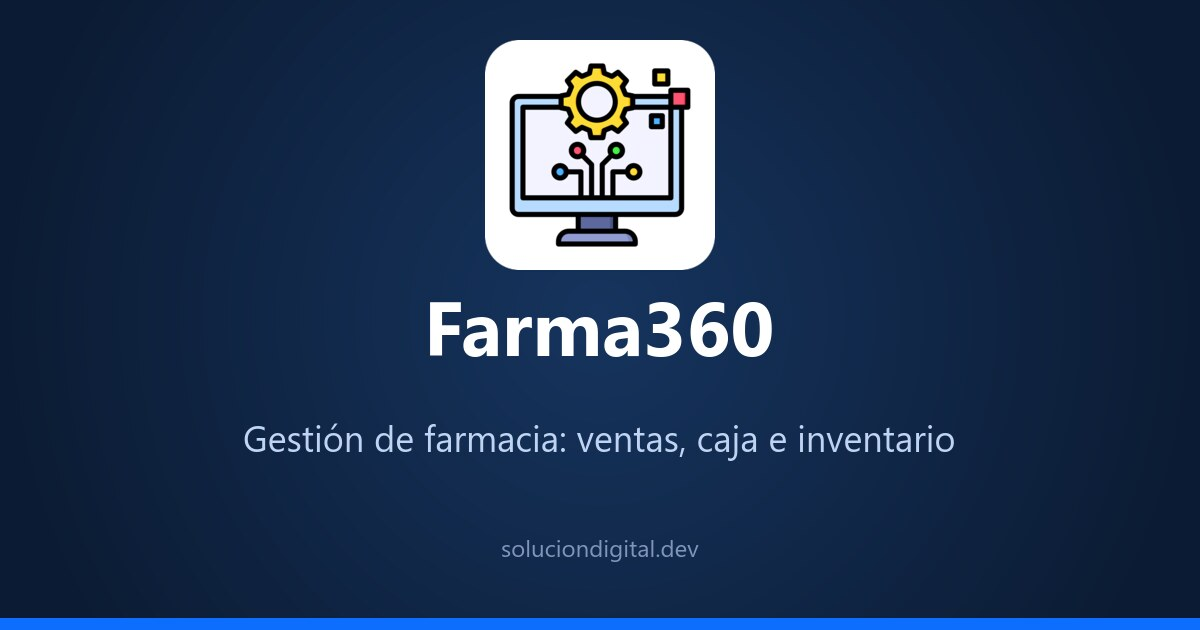
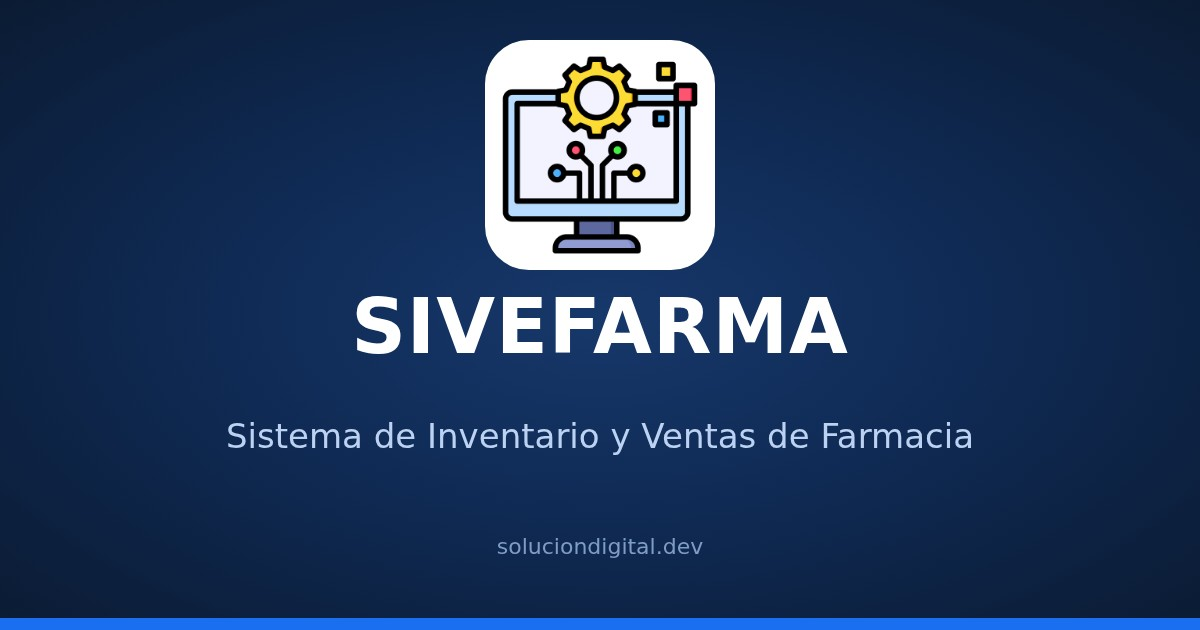
dev

diff --git a/resources/js/layouts/auth/auth-layout.tsx b/resources/js/layouts/auth/auth-layout.tsx
@@ -4,8 +4,9 @@
 import { AppLogoMark } from '@/components/shared/app-logo';
 import { DevelopedBy } from '@/components/shared/developed-by';
 import { FlashToast } from '@/components/shared/flash-toast';
-import { Link } from '@inertiajs/react';
-import { BarChart3, ShieldCheck, Users } from 'lucide-react';
+import { type SharedData } from '@/types';
+import { Link, usePage } from '@inertiajs/react';
+import { CalendarClock, ShoppingCart, Wallet } from 'lucide-react';
 
 interface AuthLayoutProps {
     children: React.ReactNode;
@@ -13,26 +14,43 @@ interface AuthLayoutProps {
     description?: string;
 }
 
+const SYSTEM_DESCRIPTION = 'Sistema de Inventario y Ventas de Farmacia';
+
 // Lo que trae el sistema (lado izquierdo). Cámbialo por lo que ofrece el sistema de cada cliente.
 const features = [
-    { icon: Users, title: 'Usuarios y roles', text: 'Crea roles a medida y decide qué puede ver y hacer cada uno.' },
-    { icon: ShieldCheck, title: 'Nada se pierde', text: 'Lo eliminado no se borra: queda guardado quién lo registró y quién lo eliminó.' },
-    { icon: BarChart3, title: 'Indicadores', text: 'Registros, cuentas activas y verificación, de un vistazo.' },
+    { icon: ShoppingCart, title: 'Venta rápida', text: 'Busca por nombre, síntoma o código de barras y cobra en segundos.' },
+    { icon: CalendarClock, title: 'Lotes y vencimientos', text: 'Sale primero lo que vence antes y el stock queda al día con cada venta.' },
+    { icon: Wallet, title: 'Caja clara', text: 'Cada turno registra quién vendió y cuánto debe haber en caja.' },
 ];
 
 export default function AuthLayout({ children, title, description }: AuthLayoutProps) {
+    const { name } = usePage<SharedData>().props;
+
     return (
         <div className="bg-background grid min-h-dvh lg:grid-cols-[minmax(0,5fr)_minmax(0,6fr)]">
             {/* Lado izquierdo: la marca (siempre oscuro) */}
-            <div className="dark bg-sidebar text-sidebar-foreground relative hidden flex-col justify-between border-r p-10 lg:flex xl:p-12">
-                <Link href={route('home')} className="flex items-center gap-3 text-white">
-                    <AppLogoMark className="size-9" />
-                    <span className="font-display text-base font-semibold">Panel Admin</span>
+            <div className="dark bg-sidebar text-sidebar-foreground relative hidden flex-col justify-between overflow-hidden border-r p-10 lg:flex xl:p-12">
+                {/* El mismo dibujo de cápsulas y jeringa del menú lateral */}
+                <div
+                    aria-hidden="true"
+                    className="absolute inset-y-0 right-0 w-1/2 bg-contain bg-right bg-no-repeat opacity-60"
+                    style={{
+                        backgroundImage: "url('/images/sidebar-bg.svg')",
+                        maskImage: 'linear-gradient(to right, transparent 25%, black 75%)',
+                    }}
+                />
+
+                <Link href={route('home')} className="relative flex items-center gap-3 text-white">
+                    <AppLogoMark className="size-10" />
+                    <span>
+                        <span className="font-display block text-base leading-tight font-semibold">{name}</span>
+                        <span className="text-sidebar-foreground/70 block text-xs">{SYSTEM_DESCRIPTION}</span>
+                    </span>
                 </Link>
 
-                <div className="max-w-md space-y-10">
+                <div className="relative max-w-md space-y-10">
                     <h2 className="font-display text-[2rem] leading-[1.15] font-semibold text-balance text-white">
-                        Gestión de usuarios, roles y permisos en un solo lugar.
+                        Ventas, inventario y caja de tu farmacia en un solo lugar.
                     </h2>
                     <ul className="space-y-6">
                         {features.map(({ icon: Icon, title, text }) => (
@@ -49,15 +67,20 @@ export default function AuthLayout({ children, title, description }: AuthLayoutP
                     </ul>
                 </div>
 
-                <p className="text-sidebar-foreground/50 text-xs">© {new Date().getFullYear()} Panel Admin</p>
+                <p className="text-sidebar-foreground/50 relative text-xs">
+                    © {new Date().getFullYear()} {name}
+                </p>
             </div>
 
             {/* Lado derecho: el formulario (login, registro…) llega como children */}
             <div className="flex items-center justify-center p-6 sm:p-10">
                 <div className="w-full max-w-sm space-y-8">
                     <Link href={route('home')} className="flex items-center gap-3 lg:hidden">
-                        <AppLogoMark className="size-9" />
-                        <span className="font-display text-base font-semibold">Panel Admin</span>
+                        <AppLogoMark className="size-10" />
+                        <span>
+                            <span className="font-display block text-base leading-tight font-semibold">{name}</span>
+                            <span className="text-muted-foreground block text-xs">{SYSTEM_DESCRIPTION}</span>
+                        </span>
                     </Link>
                     <div className="space-y-1.5">
                         <h1 className="font-display text-2xl font-semibold">{title}</h1>

diff --git a/resources/js/pages/auth/login.tsx b/resources/js/pages/auth/login.tsx
@@ -45,7 +45,7 @@ export default function Login({ status, canResetPassword }: LoginProps) {
     };
 
     return (
-        <AuthLayout title="Bienvenido de nuevo" description="Ingresa tu correo y contraseña para acceder al panel">
+        <AuthLayout title="Inicia sesión" description="Ingresa con tu correo para atender tu farmacia">
             <Head title="Iniciar sesión" />
 
             {status && (
@@ -122,12 +122,7 @@ export default function Login({ status, canResetPassword }: LoginProps) {
                     </Button>
                 </div>
 
-                <div className="text-muted-foreground text-center text-sm">
-                    ¿No tienes cuenta?{' '}
-                    <TextLink href={route('register')} tabIndex={5}>
-                        Regístrate
-                    </TextLink>
-                </div>
+                <p className="text-muted-foreground text-center text-sm">¿No tienes cuenta? Pídela al administrador de tu farmacia.</p>
             </form>
         </AuthLayout>
     );

diff --git a/resources/js/components/shared/app-logo.tsx b/resources/js/components/shared/app-logo.tsx
@@ -2,7 +2,7 @@
  * LOGO del panel. Para usar tu propio logo, guarda la imagen en public/images/logo.png
  * (cuadrada, ideal 256×256 px, PNG con fondo transparente). Si no existe, se muestra el ícono por defecto.
  */
-import { Code2 } from 'lucide-react';
+import { Pill } from 'lucide-react';
 import { useState } from 'react';
 
 // Ruta del logo. Cámbiala si usas otro nombre o formato (ej: '/images/logo.svg')
@@ -25,7 +25,7 @@ export function AppLogoMark({ className = '' }: { className?: string }) {
 
     return (
         <div className={`logo-mark flex aspect-square size-8 shrink-0 items-center justify-center rounded-lg text-white ${className}`}>
-            <Code2 className="size-[58%]" strokeWidth={2.25} />
+            <Pill className="size-[58%]" strokeWidth={2.25} />
         </div>
     );
 }

diff --git a/resources/js/components/ui/button.tsx b/resources/js/components/ui/button.tsx
@@ -5,7 +5,7 @@ import * as React from 'react';
 import { cn } from '@/lib/utils';
 
 /*
- * BOTONES DEL SISTEMA (personalizados para Farma360; el resto de components/ui/ es shadcn sin cambios).
+ * BOTONES DEL SISTEMA (personalizados para SIVEFARMA; el resto de components/ui/ es shadcn sin cambios).
  * Compactos y planos: 32 px de alto, texto de 13 px y esquinas de 6 px.
  * Los botones con relleno usan la clase .btn-solid de resources/css/app.css; el color sale de --btn-bg / --btn-fg,
  * así cada variante solo cambia esas dos variables.

diff --git a/database/seeders/PharmacySeeder.php b/database/seeders/PharmacySeeder.php
@@ -28,7 +28,7 @@ use Illuminate\Support\Facades\Auth;
  * promociones, una transferencia en camino, un turno de caja abierto con ventas, y usuarios de cada rol.
  * Lo llama DatabaseSeeder. Si ya hay sucursales no hace nada.
  *
- * Usuarios (contraseña: password): regente@farma360.test · cajero@farma360.test · almacenero@farma360.test
+ * Usuarios (contraseña: password): regente@sivefarma.test · cajero@sivefarma.test · almacenero@sivefarma.test
  */
 class PharmacySeeder extends Seeder
 {
@@ -78,7 +78,7 @@ class PharmacySeeder extends Seeder
     {
         $make = function (string $key, string $name, string $role, Branch $branch) {
             $user = User::firstOrCreate(
-                ['email' => "{$key}@farma360.test"],
+                ['email' => "{$key}@sivefarma.test"],
                 ['name' => $name, 'password' => 'password', 'email_verified_at' => now(), 'branch_id' => $branch->id],
             );
             $user->syncRoles([$role]);

diff --git a/app/Models/Concerns/Auditable.php b/app/Models/Concerns/Auditable.php
@@ -8,7 +8,7 @@ use Illuminate\Database\Eloquent\SoftDeletes;
 use LogicException;
 
 /**
- * REGLA DEL SISTEMA: en Farma360 NADA se borra de la base de datos. Todo es ELIMINACIÓN LÓGICA.
+ * REGLA DEL SISTEMA: en SIVEFARMA NADA se borra de la base de datos. Todo es ELIMINACIÓN LÓGICA.
  *
  * Todo modelo del sistema usa este trait. Las columnas las crea $table->auditable() en la migración
  * (ver AppServiceProvider::registerAuditableColumns):
@@ -56,7 +56,7 @@ trait Auditable
 
         // Borrado físico prohibido en todo el sistema
         static::forceDeleting(function (self $model) {
-            throw new LogicException('Farma360 no permite borrar registros de la base de datos ('.$model::class.'). Usa delete(): la eliminación es lógica.');
+            throw new LogicException('SIVEFARMA no permite borrar registros de la base de datos ('.$model::class.'). Usa delete(): la eliminación es lógica.');
         });
     }
 

diff --git a/config/seo.php b/config/seo.php
@@ -11,17 +11,17 @@
 
 return [
 
-    'name' => 'Farma360',
+    'name' => 'SIVEFARMA',
 
     // Título de Google y de la vista previa: hasta unos 60 caracteres
-    'title' => 'Farma360 | Gestión de farmacia: ventas, caja e inventario',
+    'title' => 'SIVEFARMA | Sistema de Inventario y Ventas de Farmacia',
 
     // Descripción de Google y de la vista previa: hasta unos 160 caracteres
     'description' => 'Sistema de gestión para farmacias: punto de venta, caja, inventario por lotes, compras, transferencias entre sucursales y reportes.',
 
     'image' => 'images/og-image.jpg',
 
-    'image_alt' => 'Farma360: logo y nombre del sistema',
+    'image_alt' => 'SIVEFARMA: logo y nombre del sistema',
 
     // Color de la barra del navegador en el celular
     'theme_color' => '#0B1B33',

diff --git a/GUIA.md b/GUIA.md
@@ -334,7 +334,7 @@ Gate::inspect('delete', $user)->message(); // el motivo si no puede
 ```
 
 ### REGLA DEL SISTEMA: nada se borra → eliminación lógica + quién registró / quién eliminó
-En Farma360 **ningún dato se borra de la base de datos**. "Eliminar" solo marca el registro con `deleted_at`.
+En SIVEFARMA **ningún dato se borra de la base de datos**. "Eliminar" solo marca el registro con `deleted_at`.
 Además, **toda tabla** tiene estas columnas, que se llenan solas:
 
 | Columna | Qué guarda |
@@ -445,7 +445,7 @@ Sucursales, proveedores, clientes, categorías, laboratorios, principios activos
 ### Datos de prueba
 `php artisan migrate:fresh --seed` crea la farmacia de ejemplo (`database/seeders/PharmacySeeder.php`): 3 sucursales,
 11 productos, compras, lotes por vencer y uno vencido, promociones, una transferencia en camino y una caja abierta con ventas.
-Usuarios (contraseña `password`): `admin@admin.com` (Super Admin), `regente@farma360.test`, `cajero@farma360.test`, `almacenero@farma360.test`.
+Usuarios (contraseña `password`): `admin@admin.com` (Super Admin), `regente@sivefarma.test`, `cajero@sivefarma.test`, `almacenero@sivefarma.test`.
 
 ---
 

diff --git a/.ai/guidelines/borrado-logico.md b/.ai/guidelines/borrado-logico.md
@@ -1,6 +1,6 @@
-# Farma360 — Regla del sistema: eliminación lógica y auditoría de registro
+# SIVEFARMA — Regla del sistema: eliminación lógica y auditoría de registro
 
-Nothing is ever physically deleted from the Farma360 database. Every delete is a soft delete (`deleted_at`).
+Nothing is ever physically deleted from the SIVEFARMA database. Every delete is a soft delete (`deleted_at`).
 
 ## Required on every table
 - Every new business table MUST call `$table->auditable();` in its `Schema::create` migration. The macro (defined in `App\Providers\AppServiceProvider::registerAuditableColumns`) adds:

diff --git a/AGENTS.md b/AGENTS.md
@@ -1,9 +1,9 @@
 <laravel-boost-guidelines>
 === .ai/borrado-logico rules ===
 
-# Farma360 — Regla del sistema: eliminación lógica y auditoría de registro
+# SIVEFARMA — Regla del sistema: eliminación lógica y auditoría de registro
 
-Nothing is ever physically deleted from the Farma360 database. Every delete is a soft delete (`deleted_at`).
+Nothing is ever physically deleted from the SIVEFARMA database. Every delete is a soft delete (`deleted_at`).
 
 ## Required on every table
 

diff --git a/CLAUDE.md b/CLAUDE.md
@@ -1,9 +1,9 @@
 <laravel-boost-guidelines>
 === .ai/borrado-logico rules ===
 
-# Farma360 — Regla del sistema: eliminación lógica y auditoría de registro
+# SIVEFARMA — Regla del sistema: eliminación lógica y auditoría de registro
 
-Nothing is ever physically deleted from the Farma360 database. Every delete is a soft delete (`deleted_at`).
+Nothing is ever physically deleted from the SIVEFARMA database. Every delete is a soft delete (`deleted_at`).
 
 ## Required on every table
 

diff --git a/README.md b/README.md
@@ -57,4 +57,4 @@ If you discover a security vulnerability within Laravel, please send an e-mail t
 
 The Laravel framework is open-sourced software licensed under the [MIT license](https://opensource.org/licenses/MIT).
 "# plantilla-react" 
-"# Farma360" 
+"# SIVEFARMA: Sistema de Inventario y Ventas de Farmacia" 
